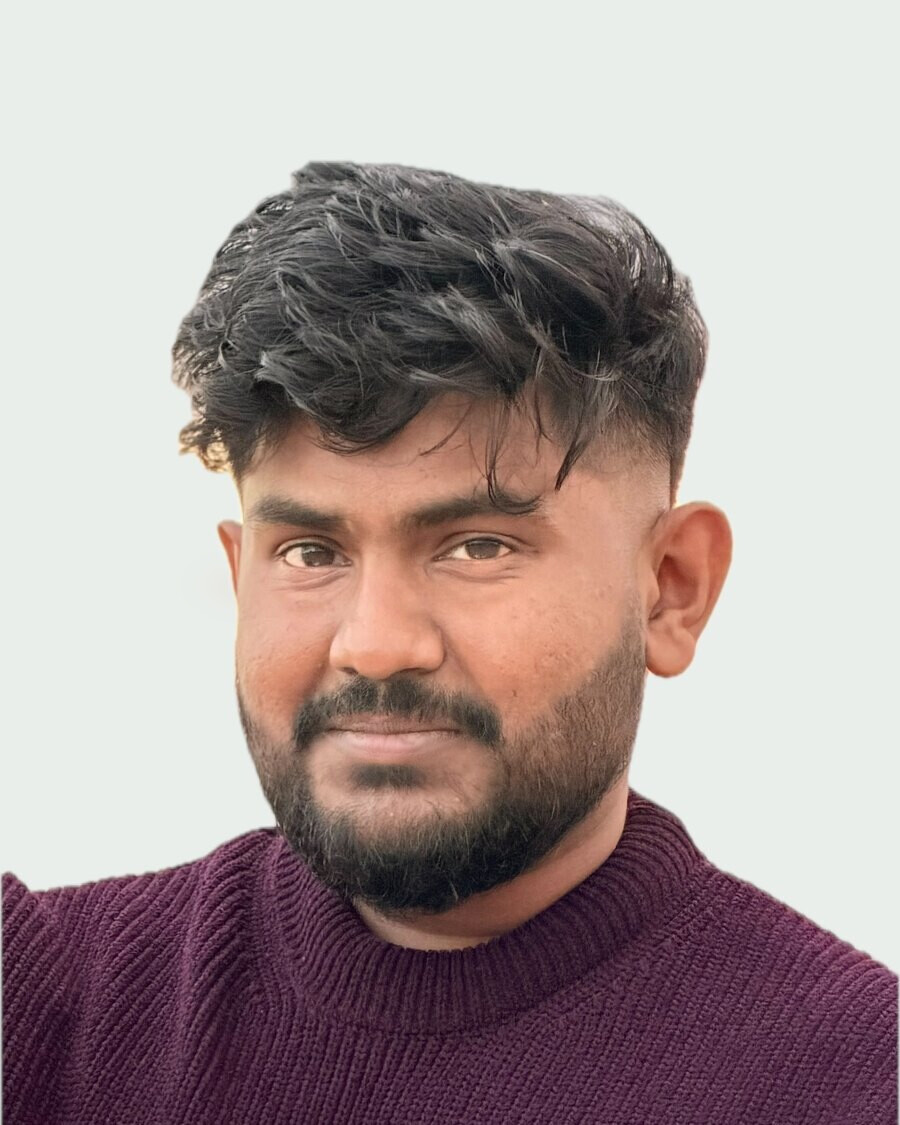
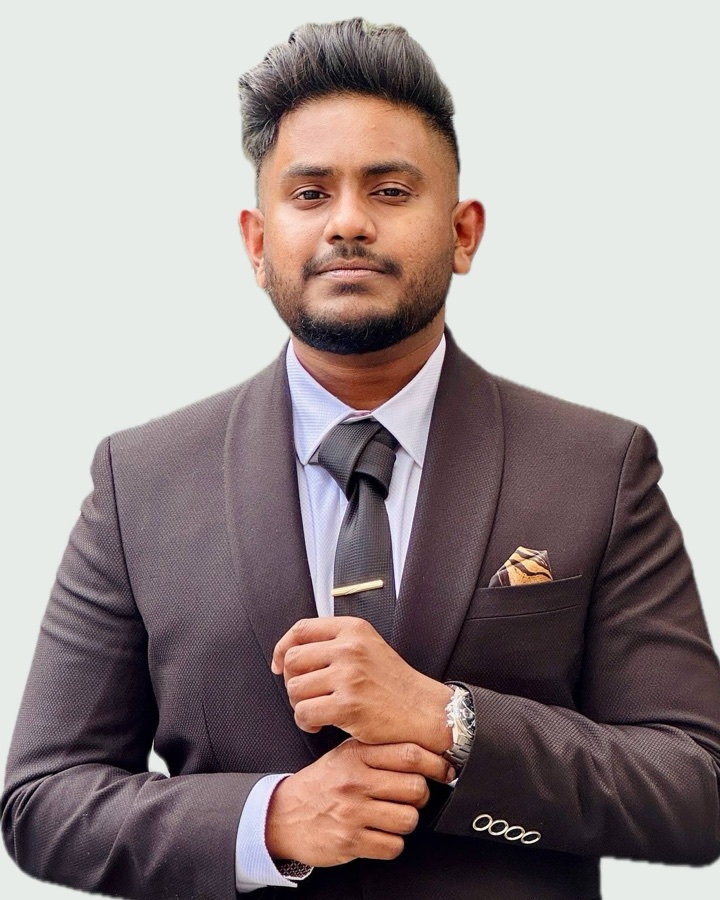
About: use the suit headshot on the leadership card

diff --git a/style.css b/style.css
@@ -510,7 +510,7 @@ img{transition:filter .6s var(--ease)}
 
 /* people */
 .person{display:grid;grid-template-columns:minmax(0,340px) minmax(0,1fr);gap:40px;align-items:center;background:var(--card);border:1px solid var(--line);border-radius:32px;padding:24px;max-width:860px}
-.person img{width:100%;height:auto;aspect-ratio:4/5;object-fit:cover;object-position:50% 30%;border-radius:22px;background:var(--line)}
+.person img{width:100%;height:auto;aspect-ratio:4/5;object-fit:cover;object-position:50% 18%;border-radius:22px;background:var(--line)}
 .person .k{font:600 14px var(--text);color:var(--link);letter-spacing:.02em}
 .person h3{font-size:clamp(28px,3.6vw,40px);letter-spacing:-.03em;margin:8px 0 6px}
 .person .role{color:var(--muted);font-size:18px}
